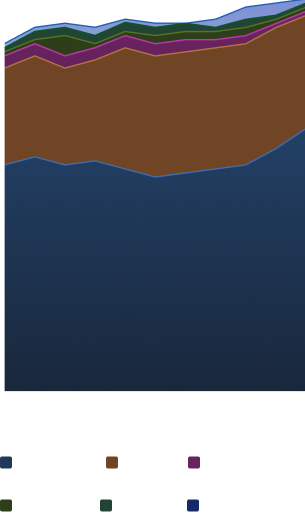
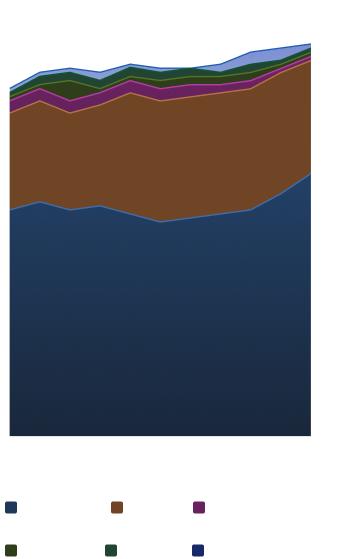
updates v5

diff --git a/src/components/home/charts.tsx b/src/components/home/charts.tsx
@@ -45,8 +45,8 @@ export const Charts: React.FC<ChartsProps> = ({ }) => {
                         <CardSubtitle>Download or share your custom comparisons for easy collaboration</CardSubtitle>
                     </div>
                 </div>
-                <div className=""><img src={chart} alt="" className="hidden md:block"/></div>
-                <img src={chart3} srcSet={`${chart1} 1x, ${chart2} 2x, ${chart3} 3x`} alt="" className="md:hidden" />
+                <div className=""><img src={chart} alt="" className="hidden md:block" /></div>
+                <img src={chart3} srcSet={`${chart1} 1x, ${chart2} 2x, ${chart3} 3x`} alt="" className="md:hidden mt-12 flex-1 max-w-96" />
             </div>
         </CustomSection>
     )
